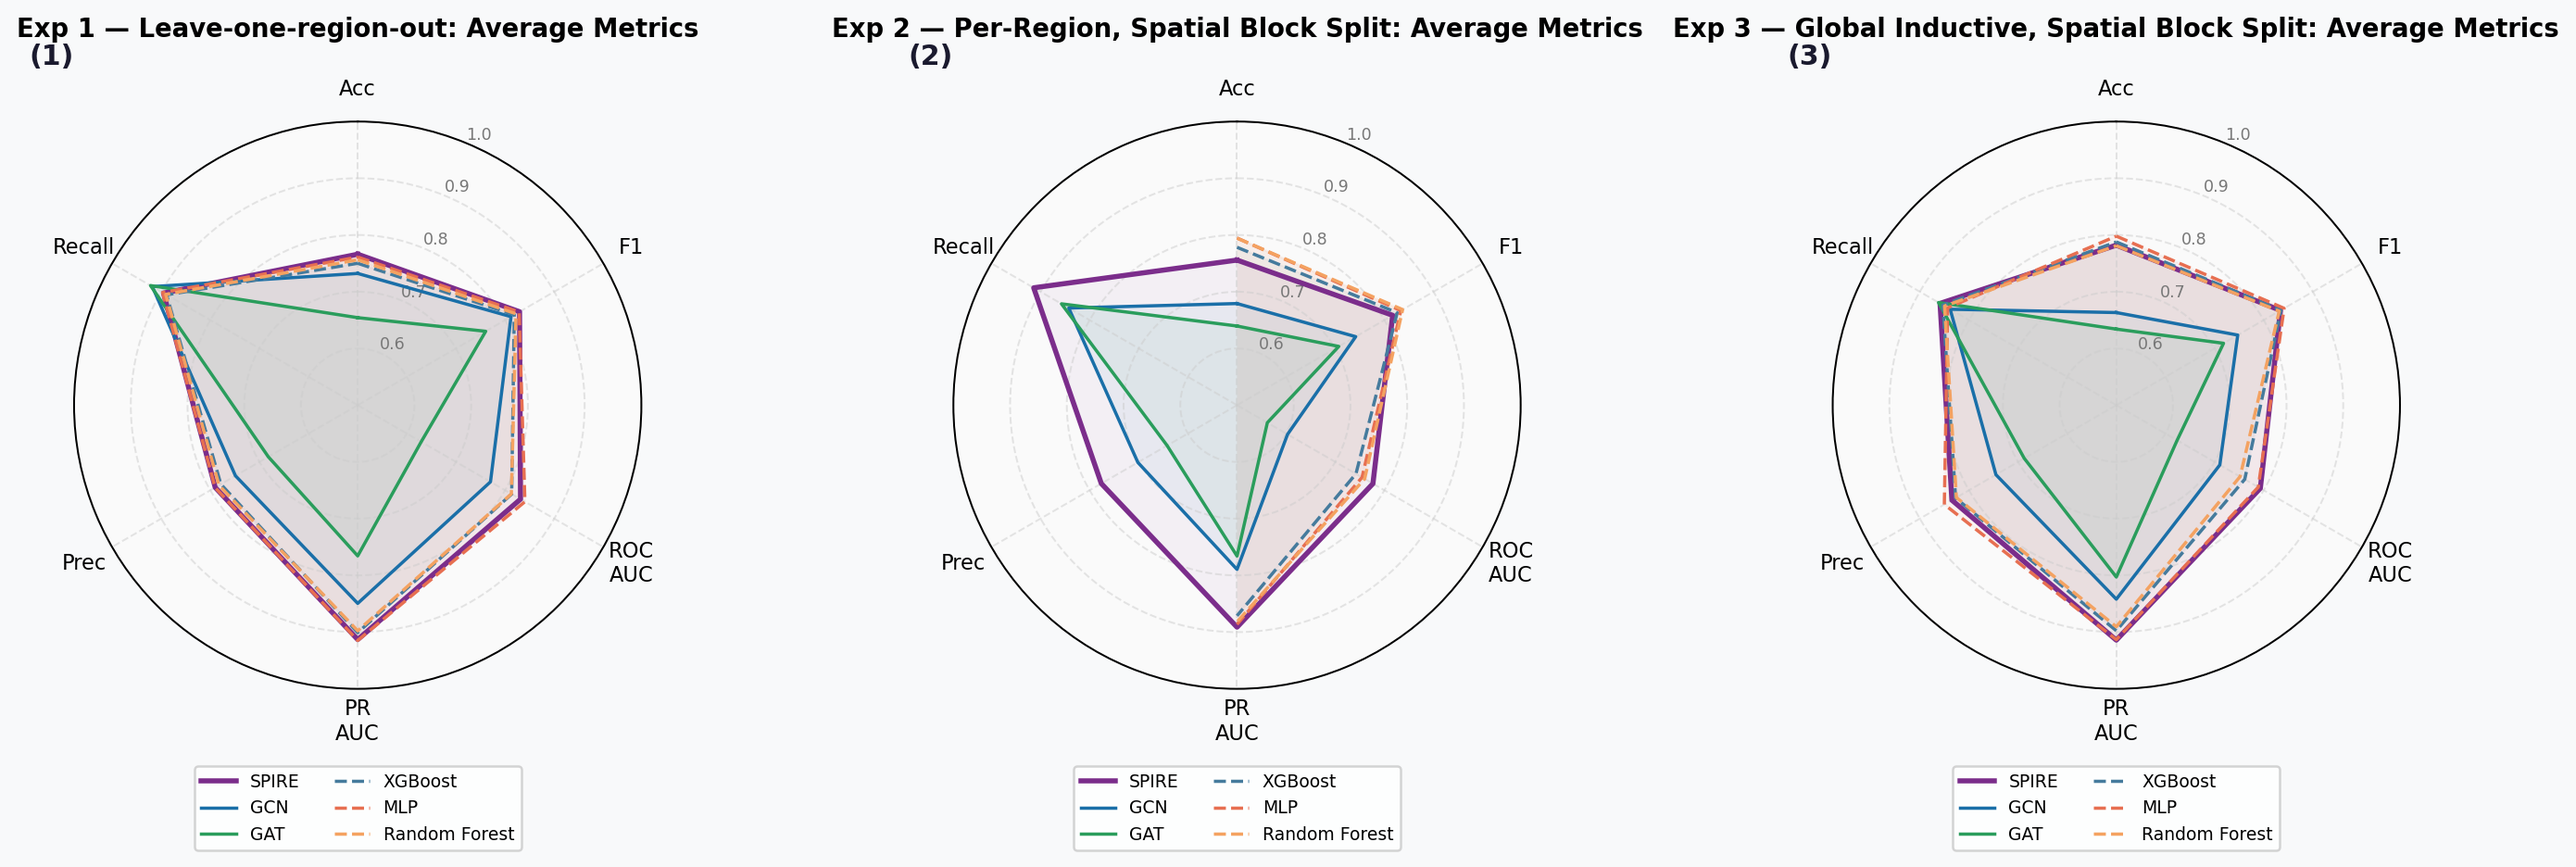
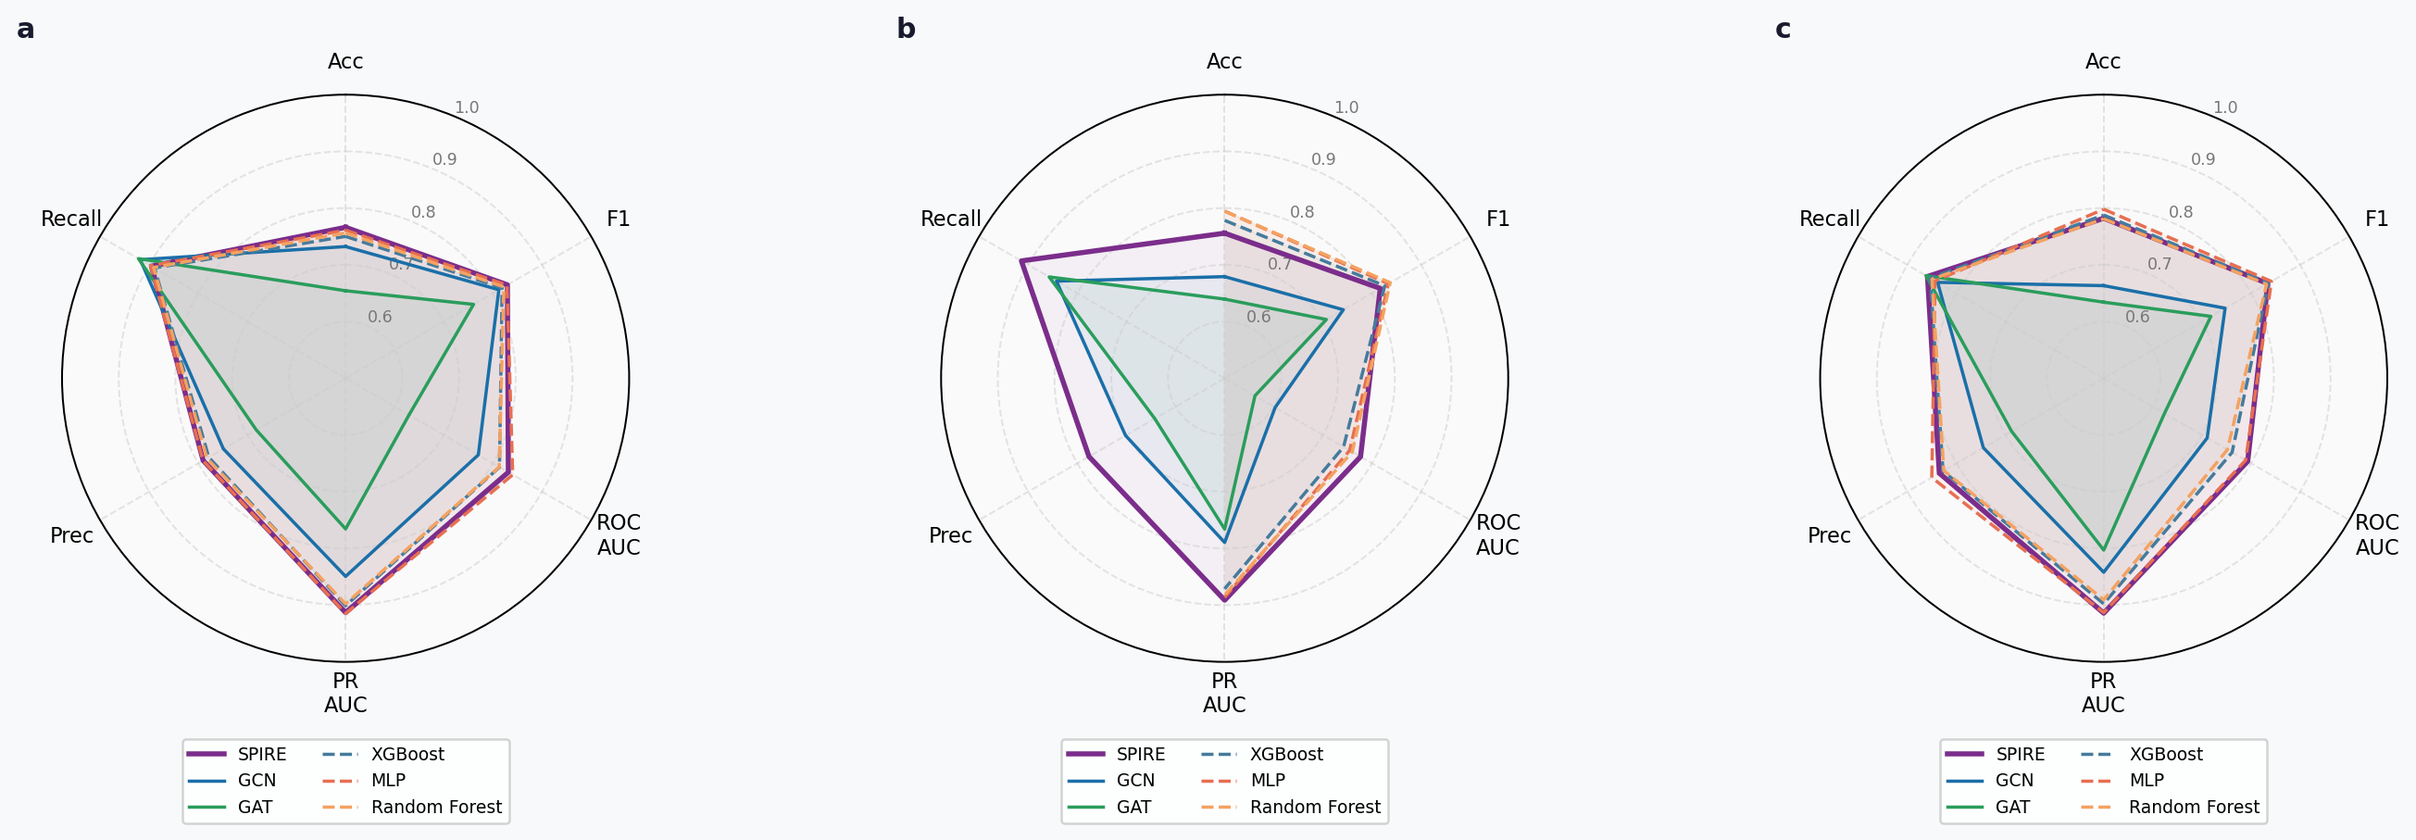
chore(figures): drop in-figure titles and use a/b/c panel labels

diff --git a/figures/draw_combined.py b/figures/draw_combined.py
@@ -170,7 +170,7 @@ def load_exp3():
 
 # ── Panel drawers ─────────────────────────────────────────────────────────────
 
-def draw_panel_a(ax, avg, title, std=None):
+def draw_panel_a(ax, avg, std=None):
     x       = np.arange(len(ALL_MODELS))
     w       = 0.26
     offsets = np.array([-w, 0, w])
@@ -205,10 +205,9 @@ def draw_panel_a(ax, avg, title, std=None):
         loc="lower right", fontsize=9, framealpha=0.8,
         title="Metric", title_fontsize=9,
     )
-    ax.set_title(title, fontsize=11, fontweight="bold", pad=8)
 
 
-def draw_panel_b(ax, avg, title):
+def draw_panel_b(ax, avg):
     N      = len(RADAR_METRICS)
     angles = np.linspace(0, 2 * np.pi, N, endpoint=False).tolist()
     angles += angles[:1]
@@ -236,10 +235,9 @@ def draw_panel_b(ax, avg, title):
         ax.fill(angles, vals, color=color, alpha=0.05)
     ax.legend(loc="lower center", bbox_to_anchor=(0.5, -0.30),
               fontsize=7.5, framealpha=0.85, ncol=2)
-    ax.set_title(title, fontsize=11, fontweight="bold", pad=18)
 
 
-def draw_panel_c_gnn(ax, per_region, title, show_xlabel=True):
+def draw_panel_c_gnn(ax, per_region, show_xlabel=True):
     reg_labels = [REG_SHORT[r] for r in REGIONS]
     x2       = np.arange(len(REGIONS))
     gnn_list = [("spire", "SPIRE"), ("gcn", "GCN"), ("gat", "GAT")]
@@ -278,7 +276,6 @@ def draw_panel_c_gnn(ax, per_region, title, show_xlabel=True):
     ax.grid(axis="y", linestyle="--", alpha=0.35, zorder=0)
     ax.spines[["top", "right"]].set_visible(False)
     ax.legend(loc="lower right", fontsize=8.5, framealpha=0.85)
-    ax.set_title(title, fontsize=11, fontweight="bold")
 
 
 # ── Figure X — Panel A × 3 ───────────────────────────────────────────────────
@@ -287,10 +284,10 @@ def make_fig_x(data_list):
     fig, axes = plt.subplots(3, 1, figsize=(18, 21))
     fig.patch.set_facecolor("#F8F9FA")
     fig.subplots_adjust(hspace=0.3)
-    for ax, (avg, std, _, title) in zip(axes, data_list):
+    for ax, (avg, std, _) in zip(axes, data_list):
         ax.set_facecolor("#F8F9FA")
-        draw_panel_a(ax, avg, title, std=std)
-    for ax, lbl in zip(axes, ["(1)", "(2)", "(3)"]):
+        draw_panel_a(ax, avg, std=std)
+    for ax, lbl in zip(axes, ["a", "b", "c"]):
         ax.annotate(lbl, xy=(-0.02, 1.03), xycoords="axes fraction",
                     fontsize=12, fontweight="bold", color="#1A1A2E",
                     annotation_clip=False)
@@ -307,10 +304,10 @@ def make_fig_y(data_list):
                              subplot_kw={"projection": "polar"})
     fig.patch.set_facecolor("#F8F9FA")
     fig.subplots_adjust(wspace=0.55)
-    for ax, (avg, _, __, title) in zip(axes, data_list):
+    for ax, (avg, _, __) in zip(axes, data_list):
         ax.set_facecolor("#FAFAFA")
-        draw_panel_b(ax, avg, title)
-    for ax, lbl in zip(axes, ["(1)", "(2)", "(3)"]):
+        draw_panel_b(ax, avg)
+    for ax, lbl in zip(axes, ["a", "b", "c"]):
         ax.annotate(lbl, xy=(-0.08, 1.10), xycoords="axes fraction",
                     fontsize=12, fontweight="bold", color="#1A1A2E",
                     annotation_clip=False)
@@ -326,10 +323,10 @@ def make_fig_z(data_list):
     fig, axes = plt.subplots(3, 1, figsize=(18, 18))
     fig.patch.set_facecolor("#F8F9FA")
     fig.subplots_adjust(hspace=0.25)
-    for i, (ax, (_, _std, pr, title)) in enumerate(zip(axes, data_list)):
+    for i, (ax, (_, _std, pr)) in enumerate(zip(axes, data_list)):
         ax.set_facecolor("#F8F9FA")
-        draw_panel_c_gnn(ax, pr, title, show_xlabel=(i == 2))
-    for ax, lbl in zip(axes, ["(1)", "(2)", "(3)"]):
+        draw_panel_c_gnn(ax, pr, show_xlabel=(i == 2))
+    for ax, lbl in zip(axes, ["a", "b", "c"]):
         ax.annotate(lbl, xy=(-0.02, 1.03), xycoords="axes fraction",
                     fontsize=12, fontweight="bold", color="#1A1A2E",
                     annotation_clip=False)
@@ -346,9 +343,9 @@ avg2, std2, pr2 = load_exp2()
 avg3, std3, pr3 = load_exp3()
 
 data_list = [
-    (avg1,  std1,  pr1,  "Exp 1 — Leave-one-region-out: Average Metrics"),
-    (avg2, std2, pr2, "Exp 2 — Per-Region, Spatial Block Split: Average Metrics"),
-    (avg3, std3, pr3, "Exp 3 — Global Inductive, Spatial Block Split: Average Metrics"),
+    (avg1,  std1,  pr1),
+    (avg2, std2, pr2),
+    (avg3, std3, pr3),
 ]
 
 make_fig_x(data_list)

diff --git a/figures/draw_combined_prop.py b/figures/draw_combined_prop.py
@@ -156,7 +156,7 @@ def load_exp6():
 
 # ── Panel drawers ─────────────────────────────────────────────────────────────
 
-def draw_panel_a(ax, avg, title, std=None):
+def draw_panel_a(ax, avg, std=None):
     x       = np.arange(len(ALL_MODELS))
     w       = 0.35
     offsets = np.array([-w / 2, w / 2])
@@ -191,10 +191,9 @@ def draw_panel_a(ax, avg, title, std=None):
         loc="lower right", fontsize=9, framealpha=0.8,
         title="Metric", title_fontsize=9,
     )
-    ax.set_title(title, fontsize=11, fontweight="bold", pad=8)
 
 
-def draw_panel_b(ax, avg, per_region, title):
+def draw_panel_b(ax, avg, per_region):
     reg_list = [r for r in REGIONS if r in per_region]
     actual   = [per_region[r]["actual_proportion"] for r in reg_list]
 
@@ -227,10 +226,9 @@ def draw_panel_b(ax, avg, per_region, title):
     ax.grid(linestyle="--", alpha=0.4, zorder=0)
     ax.spines[["top", "right"]].set_visible(False)
     ax.legend(fontsize=8, framealpha=0.85)
-    ax.set_title(title, fontsize=11, fontweight="bold", pad=24)
 
 
-def draw_panel_c(ax, per_region, title, show_xlabel=True):
+def draw_panel_c(ax, per_region, show_xlabel=True):
     reg_list   = [r for r in REGIONS if r in per_region]
     reg_labels = [REG_SHORT[r] for r in reg_list]
     x2       = np.arange(len(reg_list))
@@ -265,7 +263,6 @@ def draw_panel_c(ax, per_region, title, show_xlabel=True):
     ax.grid(axis="y", linestyle="--", alpha=0.35, zorder=0)
     ax.spines[["top", "right"]].set_visible(False)
     ax.legend(loc="lower right", fontsize=8.5, framealpha=0.85)
-    ax.set_title(title, fontsize=11, fontweight="bold")
 
 
 # ── Figure A — Panel A × 3 ───────────────────────────────────────────────────
@@ -274,10 +271,10 @@ def make_fig_a(data_list):
     fig, axes = plt.subplots(3, 1, figsize=(18, 21))
     fig.patch.set_facecolor("#F8F9FA")
     fig.subplots_adjust(hspace=0.3)
-    for ax, (avg, std, _, title) in zip(axes, data_list):
+    for ax, (avg, std, _) in zip(axes, data_list):
         ax.set_facecolor("#F8F9FA")
-        draw_panel_a(ax, avg, title, std=std)
-    for ax, lbl in zip(axes, ["(1)", "(2)", "(3)"]):
+        draw_panel_a(ax, avg, std=std)
+    for ax, lbl in zip(axes, ["a", "b", "c"]):
         ax.annotate(lbl, xy=(-0.02, 1.03), xycoords="axes fraction",
                     fontsize=12, fontweight="bold", color="#1A1A2E",
                     annotation_clip=False)
@@ -293,10 +290,10 @@ def make_fig_b(data_list):
     fig, axes = plt.subplots(1, 3, figsize=(18, 7))
     fig.patch.set_facecolor("#F8F9FA")
     fig.subplots_adjust(wspace=0.55)
-    for ax, (avg, _, pr, title) in zip(axes, data_list):
+    for ax, (avg, _, pr) in zip(axes, data_list):
         ax.set_facecolor("#F8F9FA")
-        draw_panel_b(ax, avg, pr, title)
-    for ax, lbl in zip(axes, ["(1)", "(2)", "(3)"]):
+        draw_panel_b(ax, avg, pr)
+    for ax, lbl in zip(axes, ["a", "b", "c"]):
         ax.annotate(lbl, xy=(-0.08, 1.02), xycoords="axes fraction",
                     fontsize=12, fontweight="bold", color="#1A1A2E",
                     annotation_clip=False)
@@ -312,10 +309,10 @@ def make_fig_c(data_list):
     fig, axes = plt.subplots(3, 1, figsize=(18, 18))
     fig.patch.set_facecolor("#F8F9FA")
     fig.subplots_adjust(hspace=0.25)
-    for i, (ax, (_, _std, pr, title)) in enumerate(zip(axes, data_list)):
+    for i, (ax, (_, _std, pr)) in enumerate(zip(axes, data_list)):
         ax.set_facecolor("#F8F9FA")
-        draw_panel_c(ax, pr, title, show_xlabel=(i == 2))
-    for ax, lbl in zip(axes, ["(1)", "(2)", "(3)"]):
+        draw_panel_c(ax, pr, show_xlabel=(i == 2))
+    for ax, lbl in zip(axes, ["a", "b", "c"]):
         ax.annotate(lbl, xy=(-0.02, 1.03), xycoords="axes fraction",
                     fontsize=12, fontweight="bold", color="#1A1A2E",
                     annotation_clip=False)
@@ -332,9 +329,9 @@ avg5, std5, pr5 = load_exp5()
 avg6, std6, pr6 = load_exp6()
 
 data_list = [
-    (avg4,  std4,  pr4,  "Exp 4 — Global Proportion: Error Metrics"),
-    (avg5, std5, pr5, "Exp 5 — Per-Region Proportion: Error Metrics"),
-    (avg6, std6, pr6, "Exp 6 — Global Inductive Proportion: Error Metrics"),
+    (avg4,  std4,  pr4),
+    (avg5, std5, pr5),
+    (avg6, std6, pr6),
 ]
 
 make_fig_a(data_list)

diff --git a/figures/draw_ablation.py b/figures/draw_ablation.py
@@ -102,21 +102,19 @@ def _series(ablation_path, main_path):
 
 
 panels = [
-    ("result/ablation_feature.json", "result/gnn_inductive.json",
-     "Exp 1 — Leave-one-region-out"),
-    ("result/ablation_feature_exp3.json", "result/inductive_sample.json",
-     "Exp 3 — Global inductive"),
+    ("result/ablation_feature.json", "result/gnn_inductive.json"),
+    ("result/ablation_feature_exp3.json", "result/inductive_sample.json"),
 ]
 
-loaded = [(t, *_series(a, m)) for a, m, t in panels]
-available = [(t, l, d) for t, l, d in loaded if l]
+loaded = [_series(a, m) for a, m in panels]
+available = [(l, d) for l, d in loaded if l]
 if not available:
     raise SystemExit("No ablation result files found — run experiment/run_ablation*.py first.")
 
 fig, axes = plt.subplots(1, len(available), figsize=(6 * len(available), 4.5), squeeze=False)
 axes = axes[0]
 
-for ax, (title, conditions, data) in zip(axes, available):
+for ax, (conditions, data) in zip(axes, available):
     x = np.arange(len(conditions))
     width = 0.22
     offsets = np.linspace(-(len(METRICS) - 1) / 2 * width,
@@ -137,7 +135,6 @@ for ax, (title, conditions, data) in zip(axes, available):
     ax.set_xticks(x)
     ax.set_xticklabels(conditions, fontsize=8.5)
     ax.set_ylabel("Score", fontsize=10)
-    ax.set_title(title, fontsize=11, fontweight="bold", pad=8)
 
     # Scale to the data rather than a fixed window -- the pre-revision limits
     # (0.74-1.02) clipped the lower conditions once the corrected numbers came in.
@@ -152,8 +149,6 @@ for ax, (title, conditions, data) in zip(axes, available):
     ax.legend(fontsize=8, framealpha=0.85, loc="lower left",
               ncol=3, columnspacing=0.8, handlelength=1.2)
 
-fig.suptitle("Feature Ablation Study — SPIRE (avg ± std)",
-             fontsize=13, fontweight="bold", y=1.01)
 fig.tight_layout()
 out = "figures/fig_ablation.png"
 fig.savefig(out, dpi=150, bbox_inches="tight")

diff --git a/figures/draw_hparam_heatmap.py b/figures/draw_hparam_heatmap.py
@@ -18,7 +18,6 @@ with open("result/hparam_sensitivity.json") as f:
     res = json.load(f)
 
 records = res["records"]
-region = res["region"]
 best_hidden, best_layers, best_dropout, best_lr = res["best_config"]
 
 hidden_dims = res["search_space"]["hidden_dim"]
@@ -46,14 +45,6 @@ ax.set_yticks(np.arange(len(hidden_dims)))
 ax.set_yticklabels(hidden_dims, fontsize=10)
 ax.set_xlabel("Learning rate", fontsize=11)
 ax.set_ylabel("Hidden dimension", fontsize=11)
-
-mean_f1 = float(np.nanmean(surface))
-std_f1 = float(np.nanstd(surface))
-ax.set_title(
-    f"Validation F1 — hidden dim × learning rate ({region})\n"
-    f"num_layers={best_layers}, dropout={best_dropout} fixed",
-    fontsize=11, fontweight="bold", pad=10,
-)
 
 # Cell annotations
 for i in range(len(hidden_dims)):

diff --git a/figures/draw_k_sensitivity.py b/figures/draw_k_sensitivity.py
@@ -68,10 +68,6 @@ ax.set_yticklabels(
     fontsize=9,
 )
 ax.set_xlabel("Score", fontsize=11)
-ax.set_title(
-    "Graph Construction k Sensitivity — Exp 1 SPIRE",
-    fontsize=12, fontweight="bold", pad=10,
-)
 ax.set_xlim(0.78, 0.97)
 ax.xaxis.set_major_locator(mticker.MultipleLocator(0.02))
 ax.xaxis.set_minor_locator(mticker.MultipleLocator(0.01))
